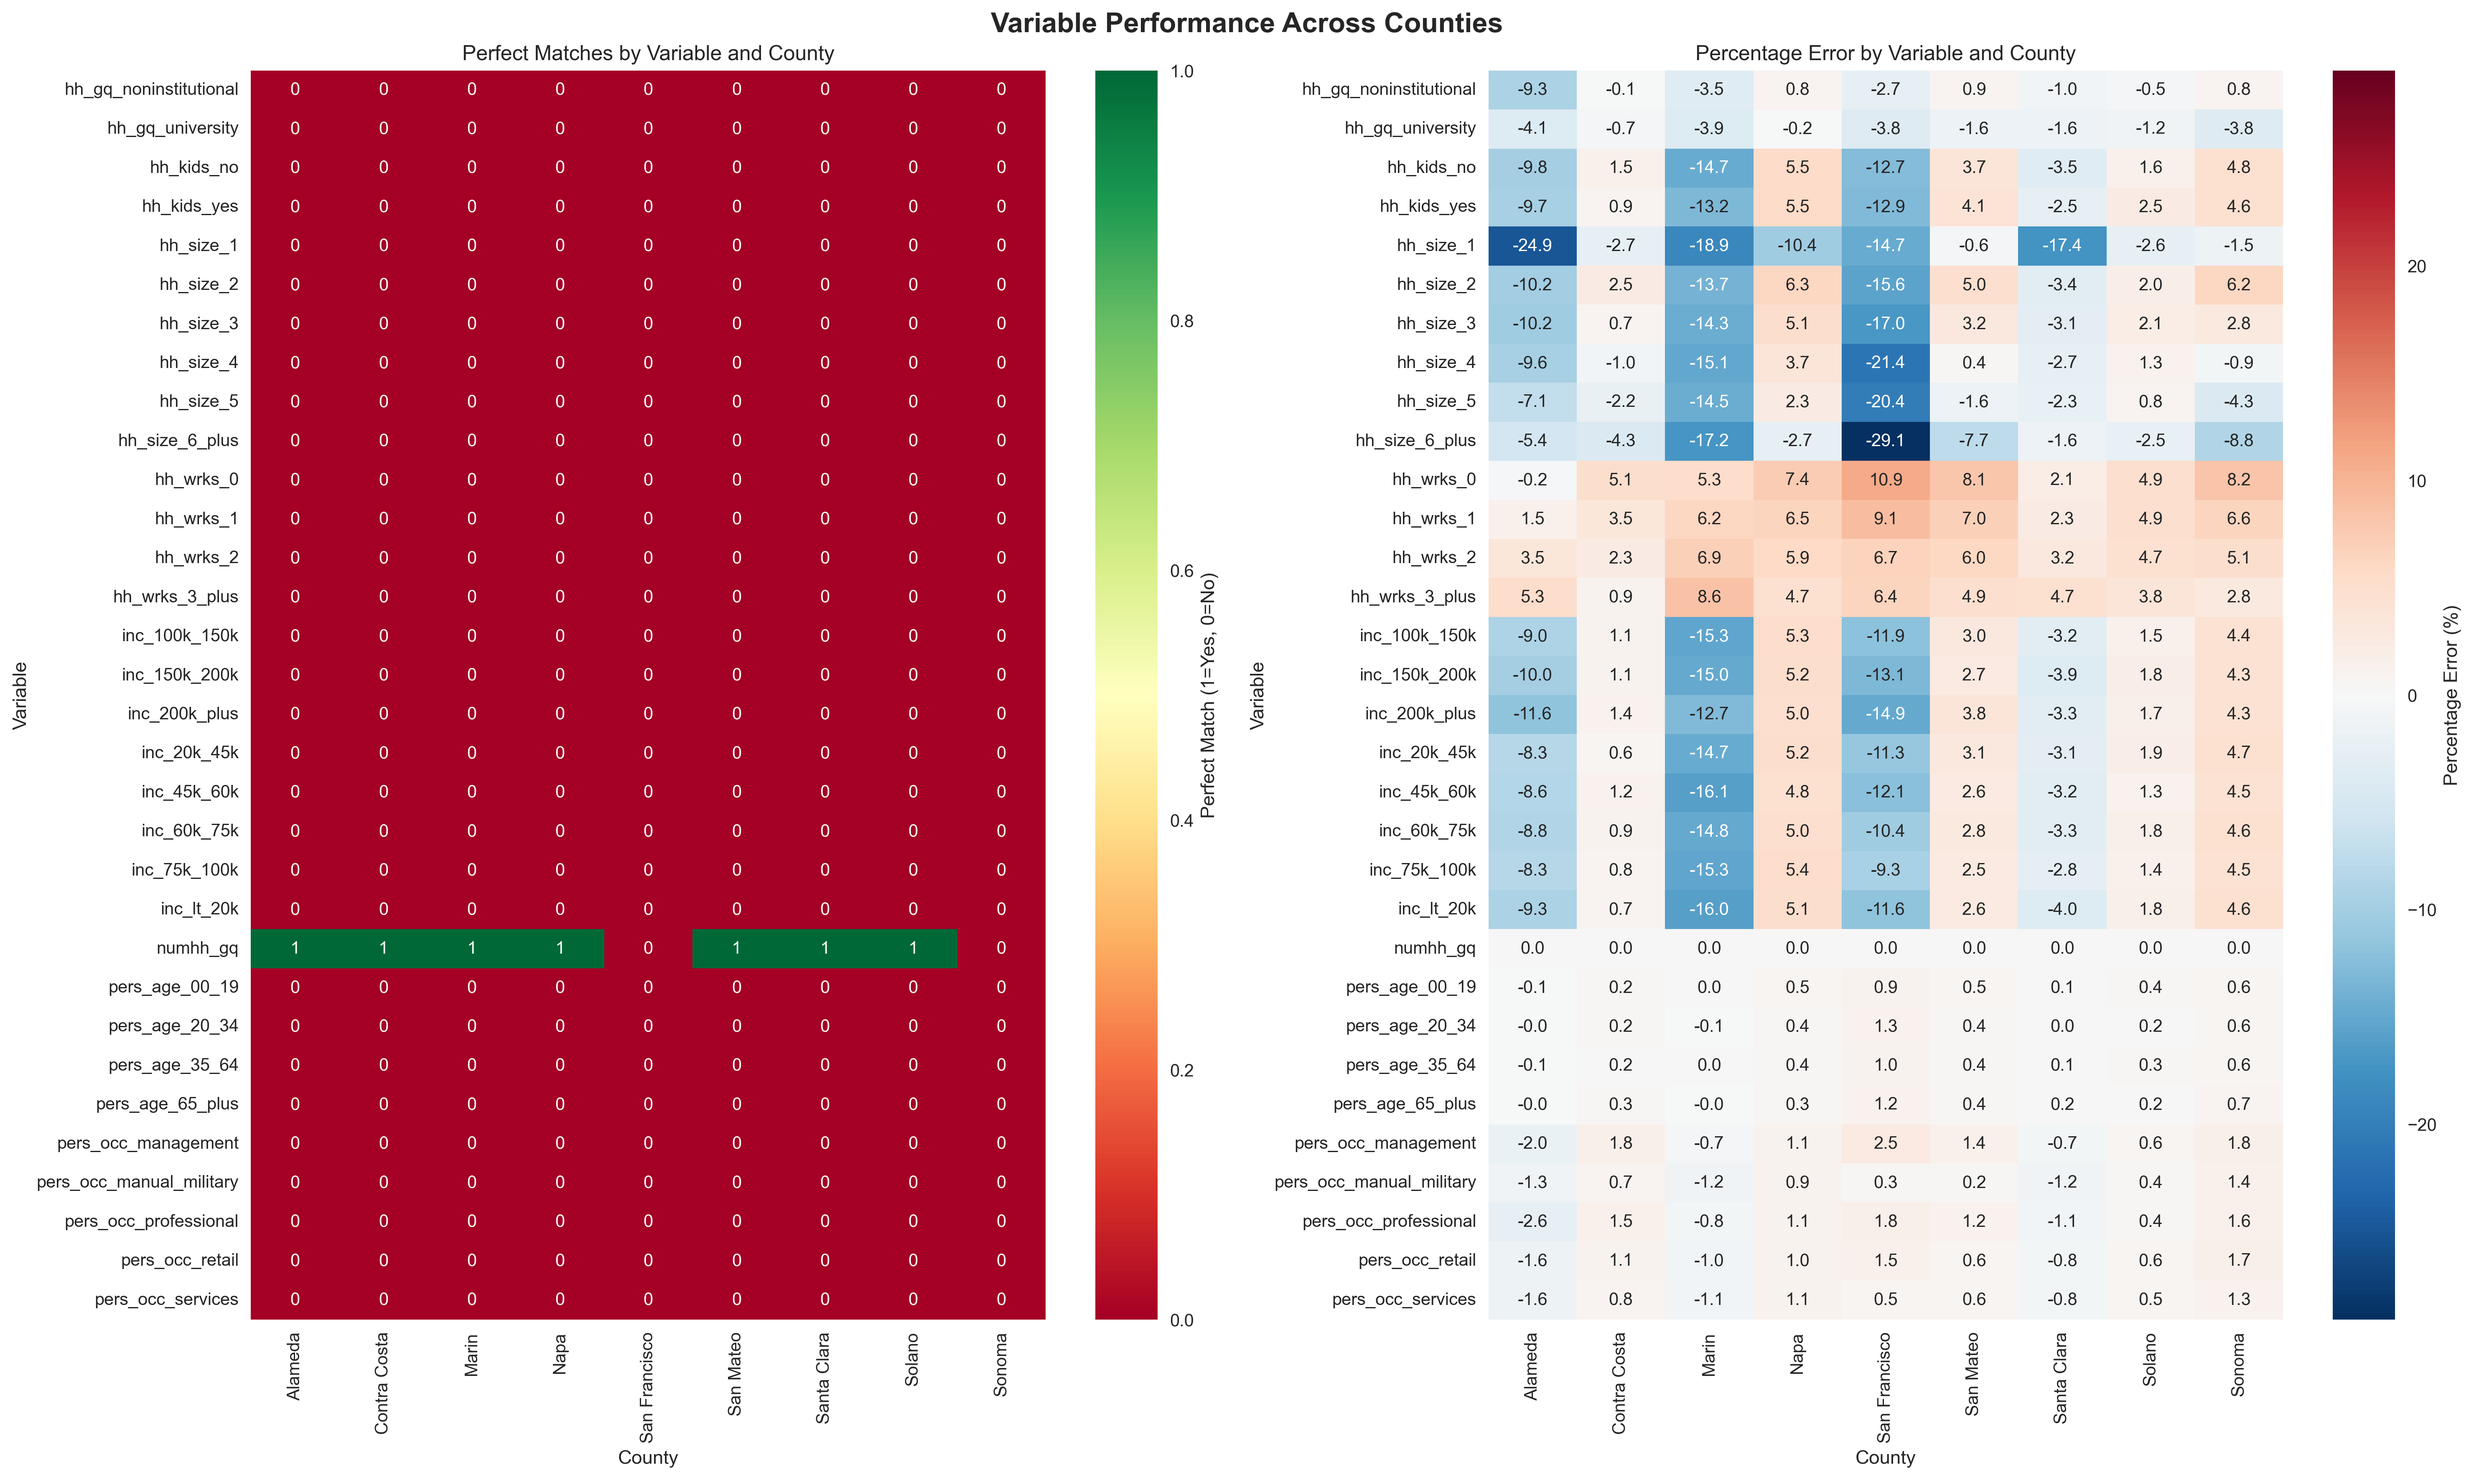
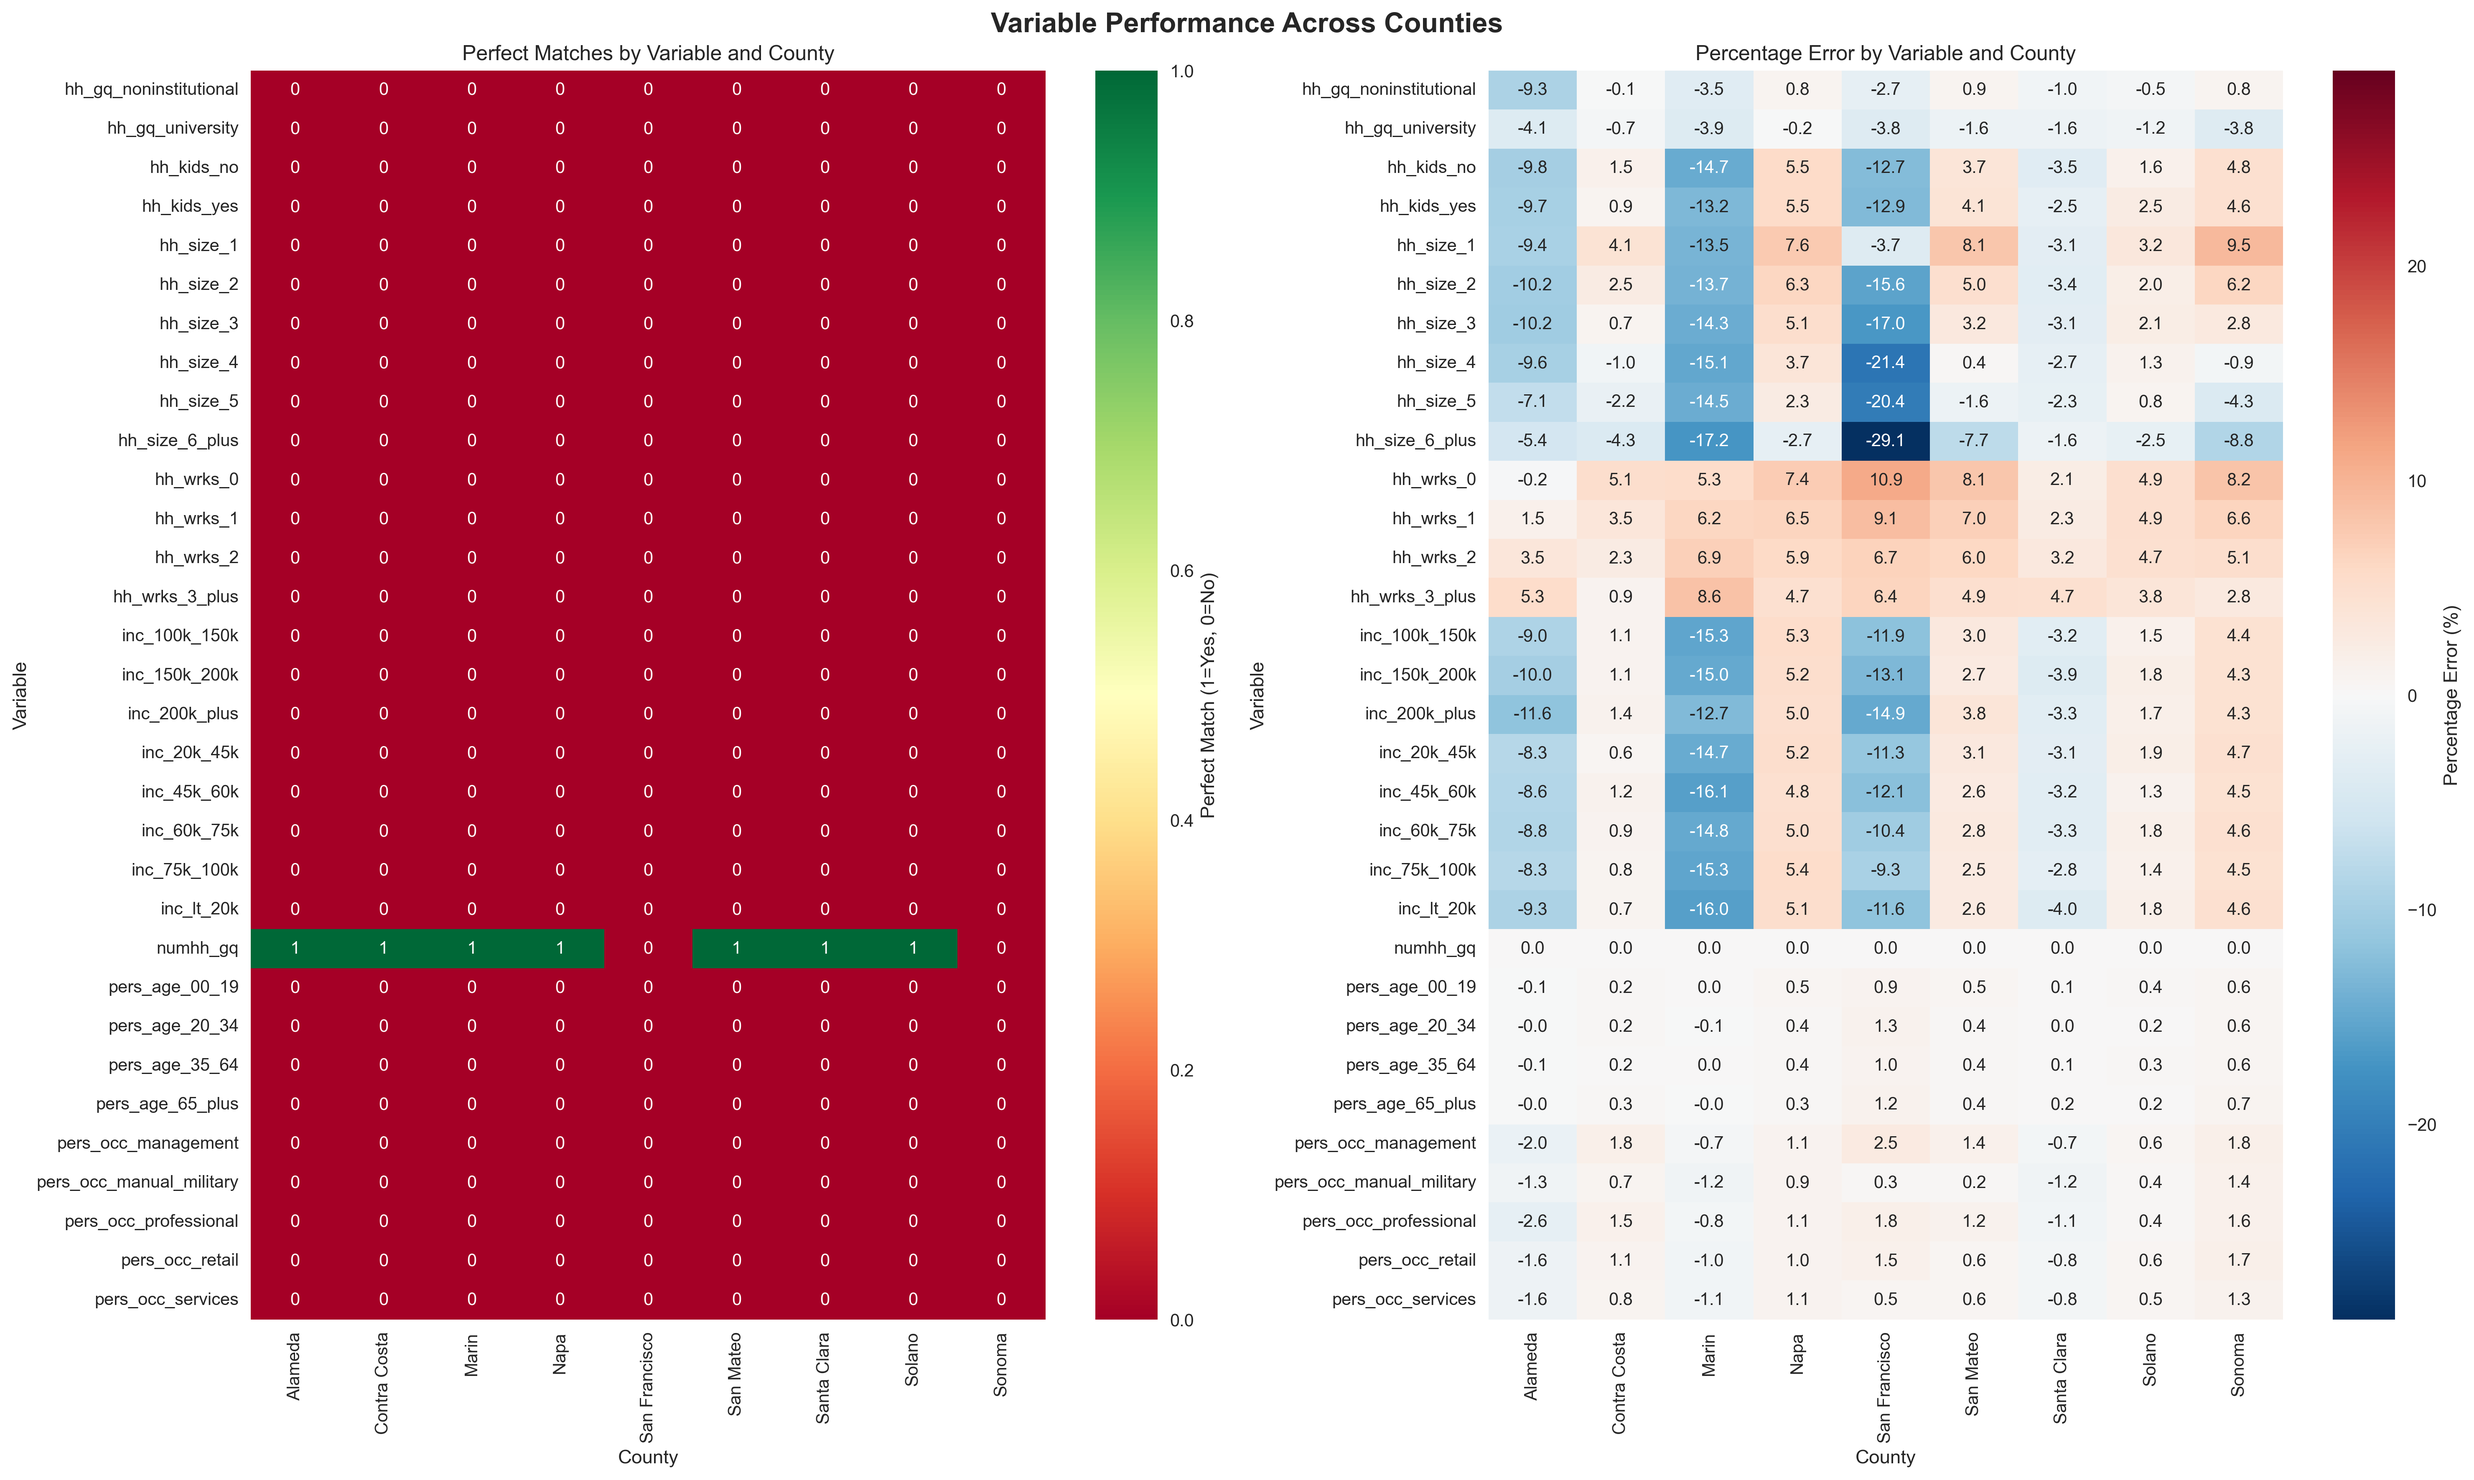
hhsize 1 gq summary

Changed region(s): [[0.5938, 0.1552, 0.9375, 0.1863]]

diff --git a/bay_area/analysis/diagnose_county_totals.py b/bay_area/analysis/diagnose_county_totals.py
@@ -1,0 +1,83 @@
+import pandas as pd
+
+fn = 'output_2023/charts/county_analysis/county_detailed_results.csv'
+print('Reading', fn)
+df = pd.read_csv(fn)
+size_vars = ['hh_size_1','hh_size_2','hh_size_3','hh_size_4','hh_size_5','hh_size_6_plus']
+
+rows = []
+for cid in sorted(df['county_id'].unique()):
+    sub = df[df['county_id']==cid]
+    name = sub['county_name'].iloc[0]
+    control_size_sum = sub[sub['control_name'].isin(size_vars)]['control'].sum()
+    result_size_sum = sub[sub['control_name'].isin(size_vars)]['result'].sum()
+    numhh_gq_control = sub[sub['control_name']=='numhh_gq']['control'].sum()
+    numhh_gq_result = sub[sub['control_name']=='numhh_gq']['result'].sum()
+    rows.append({
+        'county_id': cid,
+        'county_name': name,
+        'control_size_sum': control_size_sum,
+        'result_size_sum': result_size_sum,
+        'numhh_gq_control': numhh_gq_control,
+        'numhh_gq_result': numhh_gq_result,
+        'size_diff_control_minus_result': control_size_sum - result_size_sum,
+        'total_diff_control_minus_result': numhh_gq_control - numhh_gq_result
+    })
+
+out = pd.DataFrame(rows)
+
+pd.set_option('display.width', 160)
+print('\nPer-county summary:')
+print(out[['county_name','control_size_sum','result_size_sum','numhh_gq_control','numhh_gq_result','size_diff_control_minus_result','total_diff_control_minus_result']])
+
+# Regional totals
+r_control_size = out['control_size_sum'].sum()
+r_result_size = out['result_size_sum'].sum()
+r_numhh_control = out['numhh_gq_control'].sum()
+r_numhh_result = out['numhh_gq_result'].sum()
+
+print('\nRegional sums:')
+print(f'  Sum hh_size controls  : {r_control_size:,.0f}')
+print(f'  Sum hh_size results   : {r_result_size:,.0f}')
+print(f'  Sum numhh_gq controls : {r_numhh_control:,.0f}')
+print(f'  Sum numhh_gq results  : {r_numhh_result:,.0f}')
+print(f'  Diff (size ctrl - size res): {r_control_size - r_result_size:,.0f}')
+print(f'  Diff (total ctrl - total res): {r_numhh_control - r_numhh_result:,.0f}')
+
+# Check if size sums + GQ equals numhh_gq
+# For each county, compute (size_sum + numhh_gq_univ + numhh_gq_noninst) vs numhh_gq
+for cid in sorted(df['county_id'].unique()):
+    sub = df[df['county_id']==cid]
+    name = sub['county_name'].iloc[0]
+    size_sum = sub[sub['control_name'].isin(size_vars)]['control'].sum()
+    gq_univ = sub[sub['control_name']=='hh_gq_university']['control'].sum()
+    gq_non = sub[sub['control_name']=='hh_gq_noninstitutional']['control'].sum()
+    numhh_gq = sub[sub['control_name']=='numhh_gq']['control'].sum()
+    combined = size_sum + gq_univ + gq_non
+    if numhh_gq != 0:
+        pct = (combined - numhh_gq) / numhh_gq * 100
+    else:
+        pct = float('nan')
+    print(f"{name}: size_sum + gq = {combined:,.0f}, numhh_gq = {numhh_gq:,.0f}, diff = {combined - numhh_gq:,.0f} ({pct:+.2f}%)")
+
+print('\nDone')
+
+# Additional check: compare using COUNTY_balanced_weight and COUNTY_integer_weight
+print('\nChecking COUNTY_balanced_weight and COUNTY_integer_weight alignment...')
+dfb = pd.read_csv(fn)
+rows2 = []
+for cid in sorted(dfb['county_id'].unique()):
+    sub = dfb[dfb['county_id']==cid]
+    name = sub['county_name'].iloc[0]
+    bal_size_sum = sub[sub['control_name'].isin(size_vars)]['COUNTY_balanced_weight'].sum()
+    bal_numhh = sub[sub['control_name']=='numhh_gq']['COUNTY_balanced_weight'].sum()
+    int_size_sum = sub[sub['control_name'].isin(size_vars)]['COUNTY_integer_weight'].sum()
+    int_numhh = sub[sub['control_name']=='numhh_gq']['COUNTY_integer_weight'].sum()
+    rows2.append({'county_name': name, 'bal_size_sum': bal_size_sum, 'bal_numhh': bal_numhh, 'int_size_sum': int_size_sum, 'int_numhh': int_numhh})
+
+df2 = pd.DataFrame(rows2)
+pd.options.display.float_format = '{:,.0f}'.format
+print('\nPer-county balanced vs integer weight check:')
+print(df2[['county_name','bal_size_sum','bal_numhh','int_size_sum','int_numhh']])
+
+print('\nIf COUNTY_balanced_weight sums align but control_value sums do not, the control breakdowns likely come from mismatched control sources or were not normalized to the same total during control generation.')

diff --git a/bay_area/analysis/analyze_county_results.py b/bay_area/analysis/analyze_county_results.py
@@ -53,18 +53,12 @@ def load_county_data():
             
             # Use the final integer weight as the result
             df['result'] = df['TAZ_NODE_integer_weight']
+            # Restore the original behavior: use the raw control_value column as the control.
+            # The `control_value` field contains the original control marginals (from marginals source).
             df['control'] = df['control_value']
             
-            # Special handling for hh_size_1 to include group quarters in control
-            hh_size_1_rows = df[df['control_name'] == 'hh_size_1']
-            if len(hh_size_1_rows) > 0:
-                gq_university = df[df['control_name'] == 'hh_gq_university']['control'].iloc[0] if len(df[df['control_name'] == 'hh_gq_university']) > 0 else 0
-                gq_noninst = df[df['control_name'] == 'hh_gq_noninstitutional']['control'].iloc[0] if len(df[df['control_name'] == 'hh_gq_noninstitutional']) > 0 else 0
-                gq_total = gq_university + gq_noninst
-                
-                # Update hh_size_1 control to include group quarters
-                df.loc[df['control_name'] == 'hh_size_1', 'control'] = df.loc[df['control_name'] == 'hh_size_1', 'control'] + gq_total
-                print(f"   Adjusted hh_size_1 control to include {gq_total:,.0f} group quarters")
+            # No special handling for hh_size_1 at the county aggregation level.
+            # Keep control and result values as provided in the county summary files.
             
             all_counties.append(df)
             print(f"   Loaded {COUNTY_NAMES[county_id]}: {len(df)} variables")
@@ -390,11 +384,8 @@ def create_detailed_variable_analysis(df, output_dir):
             else:
                 ax.set_ylabel('Count')
             
-            # Special title for hh_size_1 to indicate it includes GQ
-            if var == 'hh_size_1':
-                ax.set_title('Household Size - 1 Person (including Group Quarters)')
-            else:
-                ax.set_title(var.replace('_', ' ').title())
+            # Standard title for the variable
+            ax.set_title(var.replace('_', ' ').title())
             ax.set_xticks(x)
             ax.set_xticklabels(var_data['county_name'], rotation=45, ha='right')
             ax.legend()
